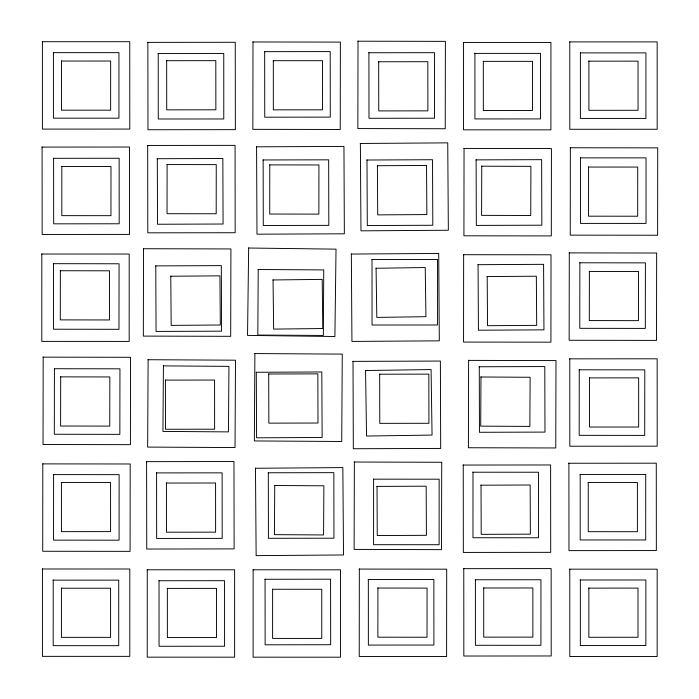
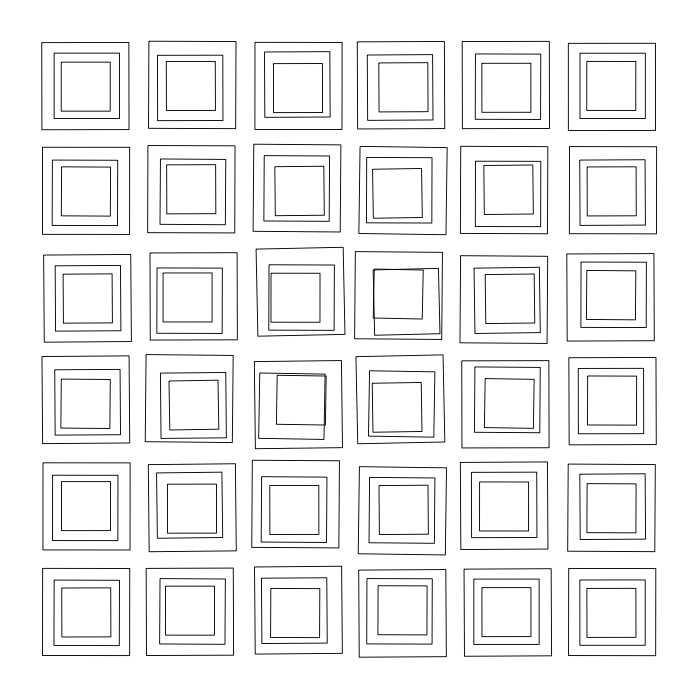
fix(molnar): scale size jitter per cell so every nested ring reacts

Changed region(s): [[0.0602, 0.0601, 0.9628, 0.9614]]

diff --git a/sketches/vsketch/molnar_squares/sketch_molnar_squares.py b/sketches/vsketch/molnar_squares/sketch_molnar_squares.py
@@ -19,14 +19,14 @@ class MolnarSquaresSketch(vsketch.SketchClass):
 
     # --- Jitter: maximum per-square variation, reached at the focus point ---
     # position offset as a fraction of the cell pitch (0 = none)
-    jitter_pos = vsketch.Param(0.1, min_value=0.0, max_value=1.0)
-    jitter_angle = vsketch.Param(1.0)  # max rotation in degrees
-    jitter_scale = vsketch.Param(1.0)  # size factor: 1 = none, 1.1 or 0.9 = +/-10%
+    jitter_pos = vsketch.Param(0.06, min_value=0.0, max_value=1.0)
+    jitter_angle = vsketch.Param(1.5)  # max rotation in degrees
+    jitter_scale = vsketch.Param(1.0)  # whole-nest size factor: 1 = none, 1.1 or 0.9 = +/-10%
 
     # --- Focus: the point the disorder is centred on ---
     focus_x = vsketch.Param(0.5, min_value=0.0, max_value=1.0)  # 0 = left edge, 1 = right
     focus_y = vsketch.Param(0.5, min_value=0.0, max_value=1.0)  # 0 = top edge, 1 = bottom
-    spread = vsketch.Param(0.5, min_value=0.05)  # bell width, as a fraction of grid reach
+    spread = vsketch.Param(0.7, min_value=0.05)  # bell width, as a fraction of grid reach
 
     # --- Layers & omission ---
     layers = vsketch.Param(1, min_value=1)  # squares are assigned a random layer
@@ -72,13 +72,16 @@ class MolnarSquaresSketch(vsketch.SketchClass):
                 # bell weight: 1 at the focus, falling off with distance
                 w = math.exp(-((math.dist((cx, cy), ref) / sigma) ** 2))
 
+                # one size factor per cell, shared by every ring, so the whole
+                # nested block scales together (every ring reacts)
+                block_scale = 1.0 + rng.uniform(-amplitude * w, amplitude * w)
+
                 for i in range(self.nests):
                     # draw all randoms before the omit roll, so changing `omit`
                     # only removes squares without moving the others
                     dx = rng.uniform(-offset * w, offset * w)
                     dy = rng.uniform(-offset * w, offset * w)
                     angle = rng.uniform(-self.jitter_angle * w, self.jitter_angle * w)
-                    scale = 1.0 + rng.uniform(-amplitude * w, amplitude * w)
                     layer = rng.randint(1, self.layers)
 
                     if rng.random() < self.omit:
@@ -92,7 +95,7 @@ class MolnarSquaresSketch(vsketch.SketchClass):
                     with vsk.pushMatrix():
                         vsk.translate(cx + dx, cy + dy)
                         vsk.rotate(angle, degrees=True)
-                        vsk.scale(scale)
+                        vsk.scale(block_scale)
                         vsk.rect(-size / 2, -size / 2, size, size)
 
     def finalize(self, vsk: vsketch.Vsketch) -> None:
